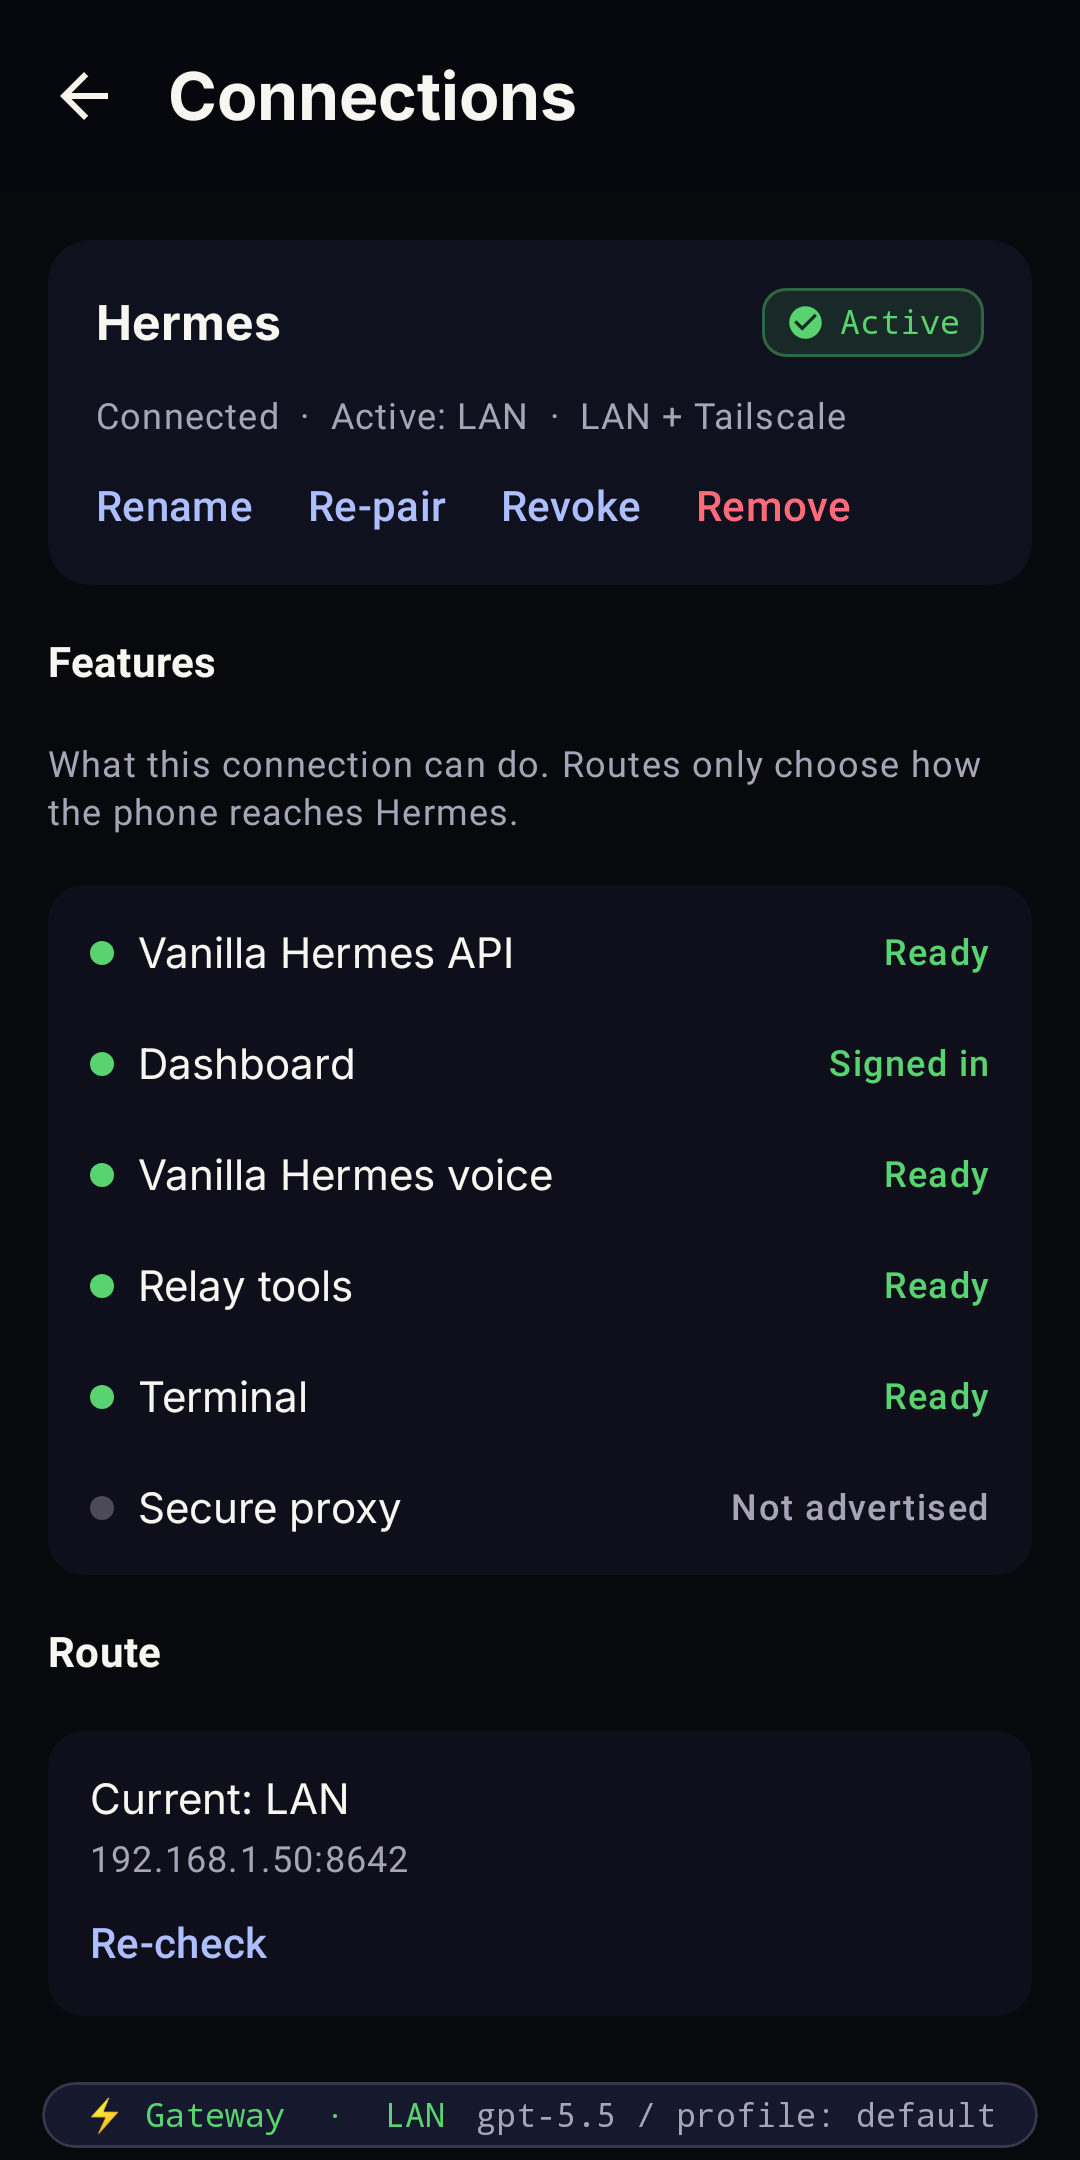
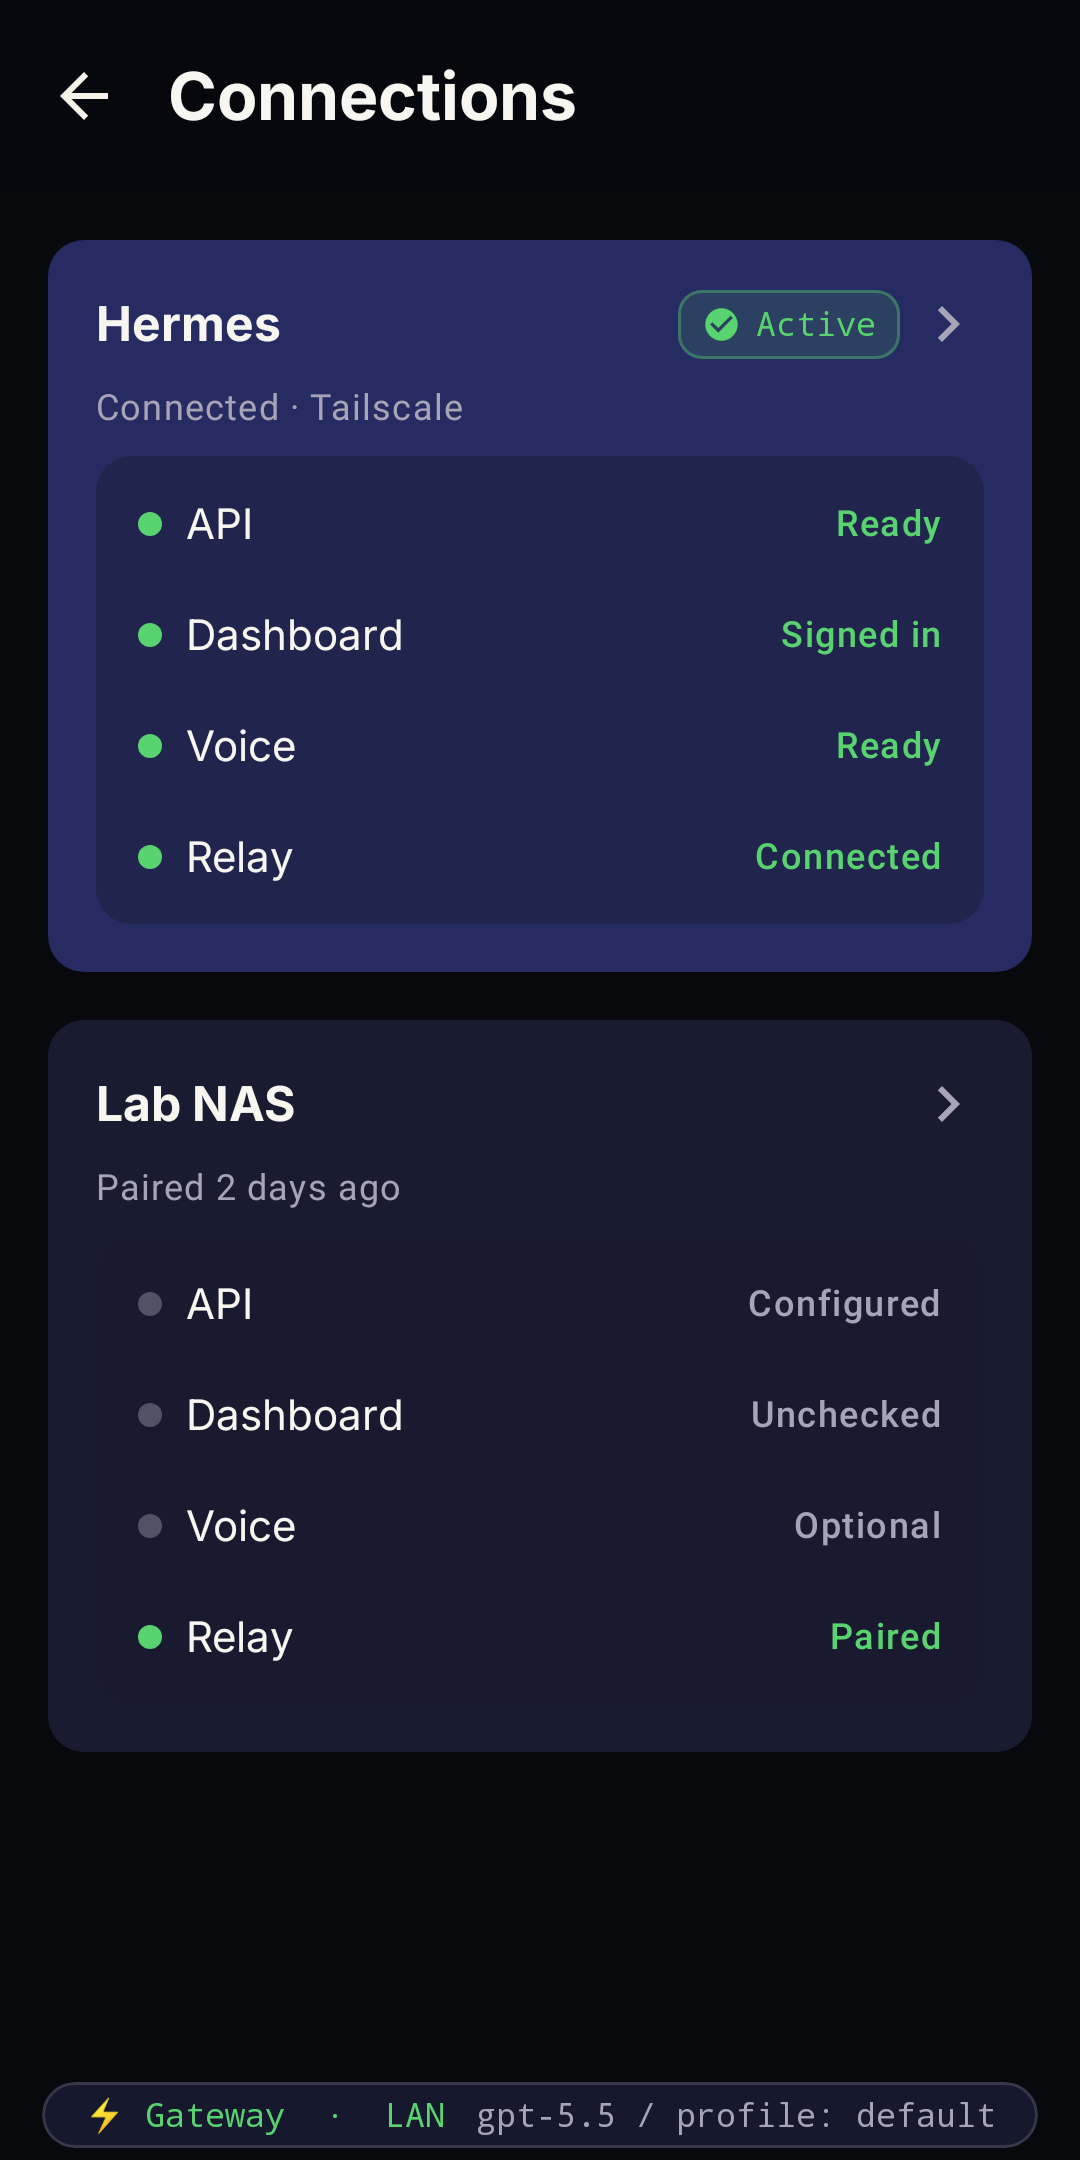
chore(store): regenerate 07_connections for the new list design
Update the ConnectionsScene mock to the new scannable connection list — each
card carries an Active badge + the capability timeline summary — replacing the
old single crammed active-card frame. Re-render host-side (Roborazzi, 1080x2160)
and re-export the Play graphic (phone-screenshots/7.png). Validation passed.

diff --git a/app/src/test/kotlin/com/hermesandroid/relay/screenshots/StoreScreenshotTest.kt b/app/src/test/kotlin/com/hermesandroid/relay/screenshots/StoreScreenshotTest.kt
@@ -4,6 +4,7 @@ import androidx.compose.foundation.background
 import androidx.compose.foundation.border
 import androidx.compose.foundation.verticalScroll
 import androidx.compose.material.icons.automirrored.filled.ArrowBack
+import androidx.compose.material.icons.automirrored.filled.KeyboardArrowRight
 import androidx.compose.material.icons.filled.AutoAwesome
 import androidx.compose.material.icons.filled.GraphicEq
 import androidx.compose.material.icons.filled.Link
@@ -552,40 +553,67 @@ private fun SessionRow(title: String, active: String, msgs: String) {
 
 @Composable
 private fun ConnectionsScene() = StoreSettings("Connections") {
-    Surface(color = MaterialTheme.colorScheme.surfaceVariant.copy(alpha = 0.5f), shape = RoundedCornerShape(14.dp), modifier = Modifier.fillMaxWidth()) {
-        Column(Modifier.padding(16.dp), verticalArrangement = Arrangement.spacedBy(12.dp)) {
+    // Level-1 list: scannable connection cards, the active one badged, each
+    // with the capability timeline. Tapping opens the tabbed detail.
+    ConnCard(label = "Hermes", active = true, status = "Connected · Tailscale") {
+        FeatureRow("API", "Ready", true)
+        FeatureRow("Dashboard", "Signed in", true)
+        FeatureRow("Voice", "Ready", true)
+        FeatureRow("Relay", "Connected", true)
+    }
+    ConnCard(label = "Lab NAS", active = false, status = "Paired 2 days ago") {
+        FeatureRow("API", "Configured", false)
+        FeatureRow("Dashboard", "Unchecked", false)
+        FeatureRow("Voice", "Optional", false)
+        FeatureRow("Relay", "Paired", true)
+    }
+}
+
+@Composable
+private fun ConnCard(
+    label: String,
+    active: Boolean,
+    status: String,
+    rows: @Composable androidx.compose.foundation.layout.ColumnScope.() -> Unit,
+) {
+    Surface(
+        color = if (active) {
+            RelayRefresh.ElectricMuted.copy(alpha = 0.42f)
+        } else {
+            MaterialTheme.colorScheme.surfaceVariant
+        },
+        shape = RoundedCornerShape(12.dp),
+        modifier = Modifier.fillMaxWidth(),
+    ) {
+        Column(Modifier.padding(16.dp), verticalArrangement = Arrangement.spacedBy(8.dp)) {
             Row(verticalAlignment = Alignment.CenterVertically) {
-                Text("Hermes", style = MaterialTheme.typography.titleMedium, fontWeight = FontWeight.Bold, color = MaterialTheme.colorScheme.onSurface)
-                androidx.compose.foundation.layout.Spacer(Modifier.weight(1f))
-                com.hermesandroid.relay.ui.components.RelayStatusPill("Active", active = true)
+                Text(
+                    label,
+                    style = MaterialTheme.typography.titleMedium,
+                    fontWeight = FontWeight.Bold,
+                    color = MaterialTheme.colorScheme.onSurface,
+                    modifier = Modifier.weight(1f),
+                )
+                if (active) com.hermesandroid.relay.ui.components.RelayStatusPill("Active", active = true)
+                Icon(
+                    androidx.compose.material.icons.Icons.AutoMirrored.Filled.KeyboardArrowRight,
+                    null,
+                    tint = MaterialTheme.colorScheme.onSurfaceVariant,
+                    modifier = Modifier.padding(start = 4.dp),
+                )
             }
-            Text("Connected  ·  Active: LAN  ·  LAN + Tailscale", style = MaterialTheme.typography.bodySmall, color = MaterialTheme.colorScheme.onSurfaceVariant)
-            Row(horizontalArrangement = Arrangement.spacedBy(18.dp)) {
-                Text("Rename", color = MaterialTheme.colorScheme.primary, style = MaterialTheme.typography.labelLarge)
-                Text("Re-pair", color = MaterialTheme.colorScheme.primary, style = MaterialTheme.typography.labelLarge)
-                Text("Revoke", color = MaterialTheme.colorScheme.primary, style = MaterialTheme.typography.labelLarge)
-                Text("Remove", color = MaterialTheme.colorScheme.error, style = MaterialTheme.typography.labelLarge)
+            Text(
+                status,
+                style = MaterialTheme.typography.bodySmall,
+                color = MaterialTheme.colorScheme.onSurfaceVariant,
+            )
+            Surface(
+                color = MaterialTheme.colorScheme.surfaceVariant.copy(alpha = 0.4f),
+                shape = RoundedCornerShape(12.dp),
+                modifier = Modifier.fillMaxWidth(),
+            ) {
+                Column(Modifier.padding(vertical = 4.dp), content = rows)
             }
-        }
-    }
-    Text("Features", style = MaterialTheme.typography.titleSmall, fontWeight = FontWeight.Bold, color = MaterialTheme.colorScheme.onBackground)
-    Text("What this connection can do. Routes only choose how the phone reaches Hermes.", style = MaterialTheme.typography.bodySmall, color = MaterialTheme.colorScheme.onSurfaceVariant)
-    Surface(color = MaterialTheme.colorScheme.surfaceVariant.copy(alpha = 0.4f), shape = RoundedCornerShape(12.dp), modifier = Modifier.fillMaxWidth()) {
-        Column(Modifier.padding(vertical = 4.dp)) {
-            FeatureRow("Vanilla Hermes API", "Ready", true)
-            FeatureRow("Dashboard", "Signed in", true)
-            FeatureRow("Vanilla Hermes voice", "Ready", true)
-            FeatureRow("Relay tools", "Ready", true)
-            FeatureRow("Terminal", "Ready", true)
-            FeatureRow("Secure proxy", "Not advertised", false)
-        }
-    }
-    Text("Route", style = MaterialTheme.typography.titleSmall, fontWeight = FontWeight.Bold, color = MaterialTheme.colorScheme.onBackground)
-    Surface(color = MaterialTheme.colorScheme.surfaceVariant.copy(alpha = 0.4f), shape = RoundedCornerShape(12.dp), modifier = Modifier.fillMaxWidth()) {
-        Column(Modifier.padding(14.dp), verticalArrangement = Arrangement.spacedBy(4.dp)) {
-            Text("Current: LAN", style = MaterialTheme.typography.bodyMedium, color = MaterialTheme.colorScheme.onSurface)
-            Text("192.168.1.50:8642", style = MaterialTheme.typography.bodySmall, color = MaterialTheme.colorScheme.onSurfaceVariant)
-            Text("Re-check", style = MaterialTheme.typography.labelLarge, color = MaterialTheme.colorScheme.primary, modifier = Modifier.padding(top = 6.dp))
         }
     }
 }